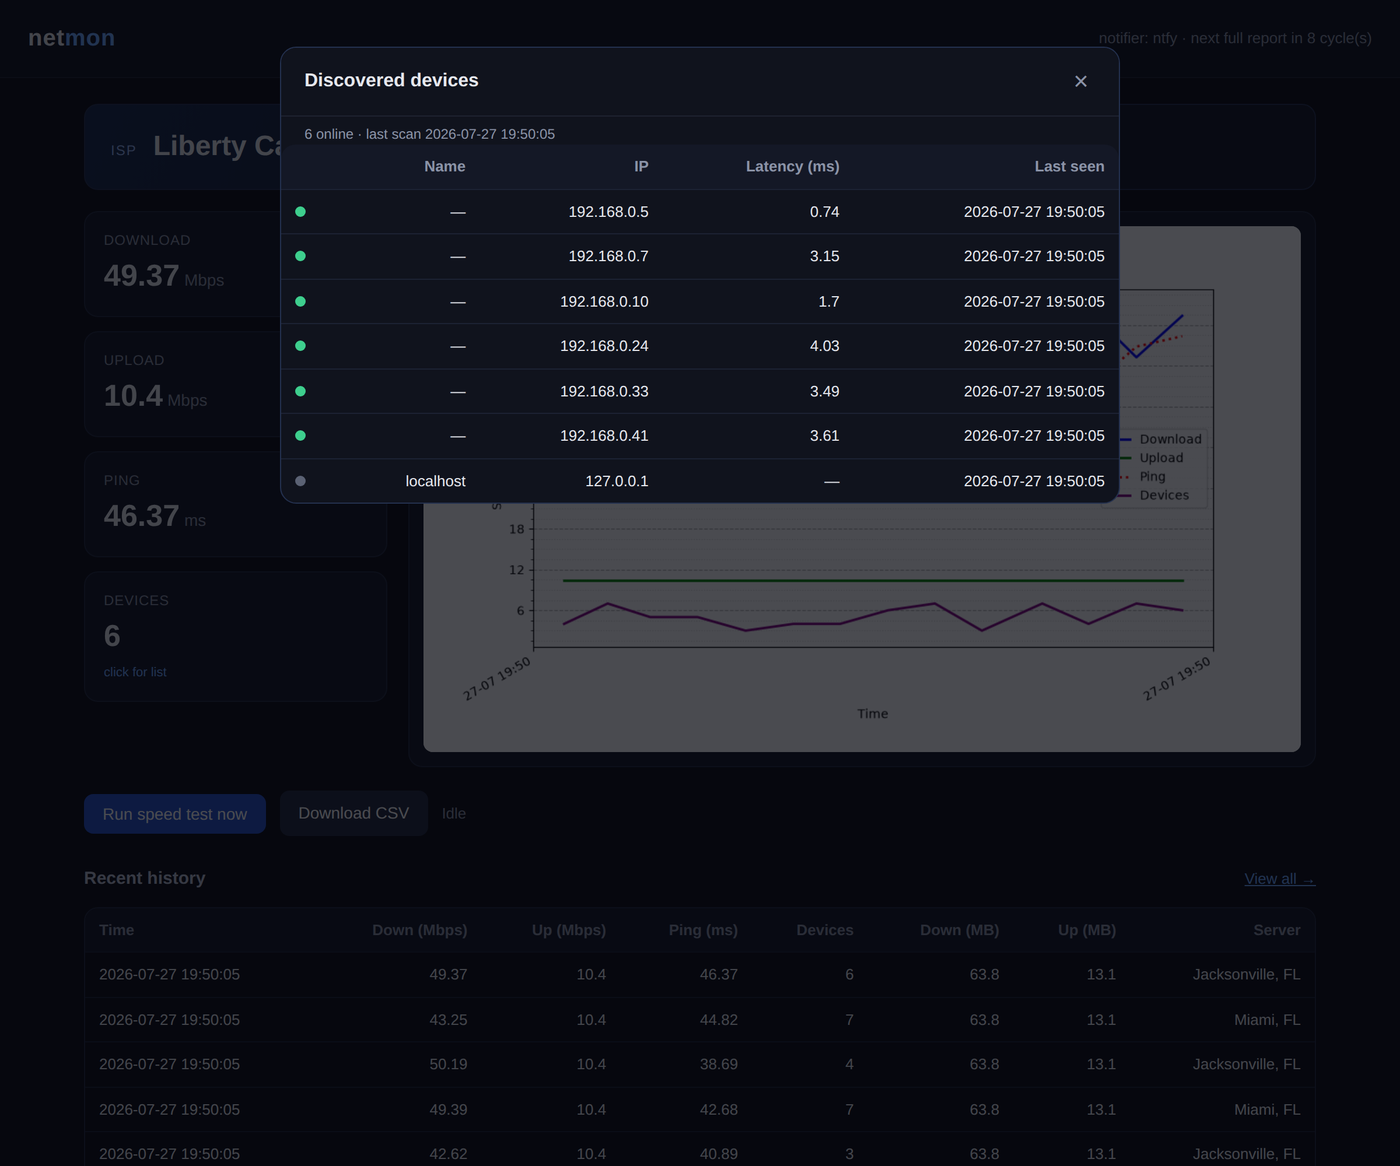
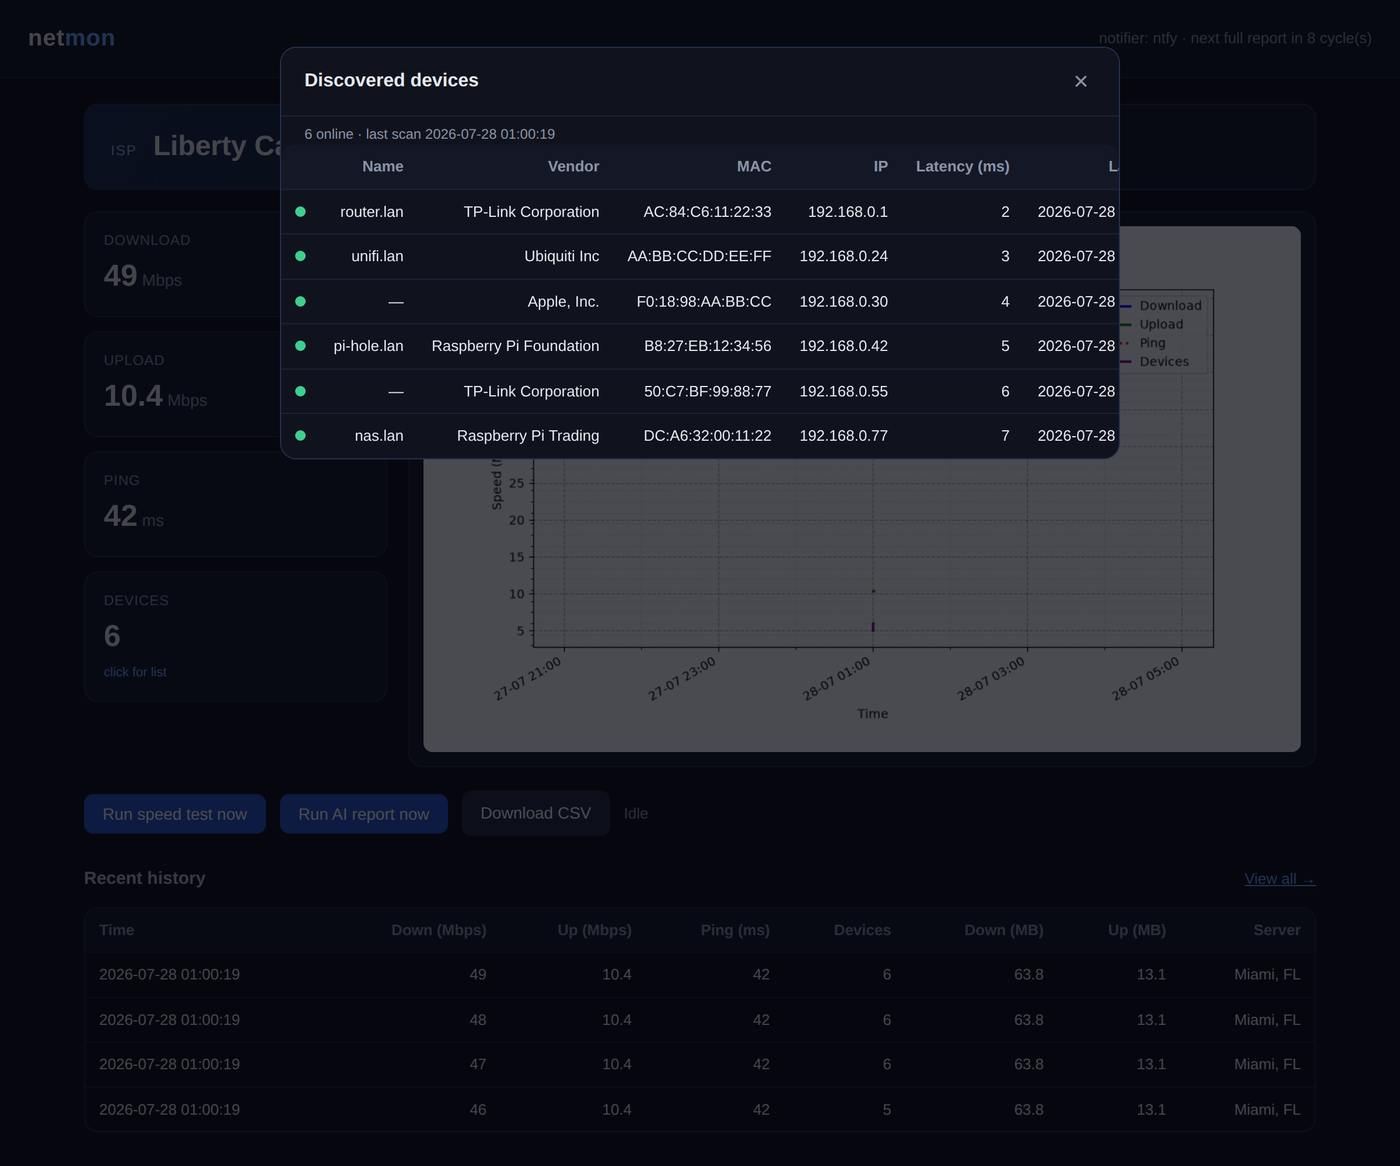
Capture MAC address and vendor for discovered devices (1.3.0)
The nmap ARP scan now records each device's MAC address, its OUI vendor
(e.g. "Ubiquiti Inc", "Apple, Inc."), and any nmap-provided hostname:

- runner parses the mac address + vendor + hostname from the nmap XML.
- models.NetworkDevice carries mac/vendor/hostname (optional, defaulted).
- device_scans gains macs/vendors/hostnames columns, with an automatic
  migration so existing databases keep working.
- The device modal shows Name / Vendor / MAC / IP / latency / last-seen;
  the name prefers the nmap hostname, falling back to reverse DNS.
- README device screenshot refreshed.

Claude-Session: https://claude.ai/code/session_013DAjxyBbM4ts2ydiTsLNY3

diff --git a/webapp.py b/webapp.py
@@ -70,22 +70,31 @@ def _resolve_hostnames(ips: list[str], budget: float = 2.0) -> dict[str, str]:
 
 def _devices_payload(db: sqlite.DB) -> dict:
     """Devices seen in the last 24h, newest scan first, with per-device
-    last-seen and online (present in the most recent scan) status."""
+    last-seen, MAC/vendor, and online (present in the most recent scan) status."""
     history = db.get_device_history(24)
     if not history:
         return {"scan_time": None, "online_count": 0, "devices": []}
 
-    latest_ts, latest_ips, latest_lats = history[0]
-    latest_set = set(latest_ips)
-    latest_lat = dict(zip(latest_ips, latest_lats))
+    latest = history[0]
+    latest_set = set(latest["ips"])
+    latest_lat = dict(zip(latest["ips"], latest["latencies"]))
 
-    last_seen: dict[str, "object"] = {}
-    for ts, ips, _lats in history:  # newest first => first occurrence is latest
-        for ip in ips:
-            if ip not in last_seen:
-                last_seen[ip] = ts
+    # Newest scan first, so the first time we see an IP is its latest info.
+    info: dict[str, dict] = {}
+    for scan in history:
+        ips = scan["ips"]
+        macs, vendors, hostnames = scan["macs"], scan["vendors"], scan["hostnames"]
+        for i, ip in enumerate(ips):
+            if ip not in info:
+                info[ip] = {
+                    "last_seen": scan["timestamp"],
+                    "mac": macs[i] if i < len(macs) else "",
+                    "vendor": vendors[i] if i < len(vendors) else "",
+                    "hostname": hostnames[i] if i < len(hostnames) else "",
+                }
 
-    names = _resolve_hostnames(list(last_seen.keys()))
+    # Reverse DNS as a fallback name when nmap didn't supply a hostname.
+    resolved = _resolve_hostnames(list(info.keys()))
 
     def ip_key(ip: str):
         try:
@@ -94,20 +103,23 @@ def _devices_payload(db: sqlite.DB) -> dict:
             return (0,)
 
     devices = []
-    for ip, ts in last_seen.items():
+    for ip, d in info.items():
         online = ip in latest_set
+        name = d["hostname"] or resolved.get(ip, "")  # nmap hostname, else reverse DNS
         devices.append({
             "ip": ip,
-            "hostname": names.get(ip, ""),
+            "name": name,
+            "vendor": d["vendor"],
+            "mac": d["mac"],
             "latency_ms": round(latest_lat.get(ip, 0.0), 2) if online else None,
-            "last_seen": ts.astimezone().strftime("%Y-%m-%d %H:%M:%S"),
+            "last_seen": d["last_seen"].astimezone().strftime("%Y-%m-%d %H:%M:%S"),
             "online": online,
         })
-    devices.sort(key=lambda d: (not d["online"], ip_key(d["ip"])))
+    devices.sort(key=lambda x: (not x["online"], ip_key(x["ip"])))
 
     return {
-        "scan_time": latest_ts.astimezone().strftime("%Y-%m-%d %H:%M:%S"),
-        "online_count": len(latest_ips),
+        "scan_time": latest["timestamp"].astimezone().strftime("%Y-%m-%d %H:%M:%S"),
+        "online_count": len(latest["ips"]),
         "devices": devices,
     }
 
@@ -270,8 +282,8 @@ INDEX_HTML = """<!doctype html>
     <div class="sub" id="devSub"></div>
     <div class="table-wrap" style="border:none">
       <table>
-        <thead><tr><th></th><th>Name</th><th>IP</th><th>Latency (ms)</th><th>Last seen</th></tr></thead>
-        <tbody id="devBody"><tr><td colspan="5" class="empty">Loading…</td></tr></tbody>
+        <thead><tr><th></th><th>Name</th><th>Vendor</th><th>MAC</th><th>IP</th><th>Latency (ms)</th><th>Last seen</th></tr></thead>
+        <tbody id="devBody"><tr><td colspan="7" class="empty">Loading…</td></tr></tbody>
       </table>
     </div>
   </div>
@@ -387,11 +399,11 @@ async function openDevices() {
       d.scan_time ? `${d.online_count} online · last scan ${d.scan_time}` : '';
     const body = document.getElementById('devBody');
     if (!d.devices.length) {
-      body.innerHTML = '<tr><td colspan="5" class="empty">No devices found</td></tr>';
+      body.innerHTML = '<tr><td colspan="7" class="empty">No devices found</td></tr>';
     } else {
       body.innerHTML = d.devices.map(x =>
         `<tr><td><span class="dot ${x.online?'on':'off'}" title="${x.online?'online':'offline'}"></span></td>` +
-        `<td>${x.hostname || '—'}</td><td>${x.ip}</td>` +
+        `<td>${x.name || '—'}</td><td>${x.vendor || '—'}</td><td>${x.mac || '—'}</td><td>${x.ip}</td>` +
         `<td>${x.latency_ms == null ? '—' : x.latency_ms}</td><td>${x.last_seen}</td></tr>`).join('');
     }
   } catch (e) { console.error(e); }

diff --git a/sqlite.py b/sqlite.py
@@ -43,6 +43,7 @@ class DB:
             db = cls(conn)
             with db.transaction():
                 db._create_schema()
+                db._migrate()
             return db
         except sqlite3.Error as e:
             raise RuntimeError(f"Failed to open database connection: {e}")
@@ -67,7 +68,10 @@ class DB:
             CREATE TABLE IF NOT EXISTS device_scans (
                 id             TEXT PRIMARY KEY,
                 ips            TEXT NOT NULL,
-                latencies      TEXT NOT NULL
+                latencies      TEXT NOT NULL,
+                macs           TEXT NOT NULL DEFAULT '[]',
+                vendors        TEXT NOT NULL DEFAULT '[]',
+                hostnames      TEXT NOT NULL DEFAULT '[]'
             );
         """)
 
@@ -87,6 +91,16 @@ class DB:
                 value TEXT NOT NULL
             );
         """)
+
+    def _migrate(self):
+        # Add device_scans columns to databases created before MAC/vendor
+        # capture. Existing rows get '[]' so reads stay consistent.
+        cols = {row[1] for row in self.conn.execute("PRAGMA table_info(device_scans);")}
+        for col in ("macs", "vendors", "hostnames"):
+            if col not in cols:
+                self.conn.execute(
+                    f"ALTER TABLE device_scans ADD COLUMN {col} TEXT NOT NULL DEFAULT '[]';"
+                )
 
     @contextmanager
     def transaction(self):
@@ -123,12 +137,15 @@ class DB:
         scan_id   = uuid.UUID(uuid7str())
         ips       = json.dumps([d.ip         for d in devices])
         latencies = json.dumps([d.latency_ms for d in devices])
+        macs      = json.dumps([d.mac        for d in devices])
+        vendors   = json.dumps([d.vendor     for d in devices])
+        hostnames = json.dumps([d.hostname   for d in devices])
 
         with self.transaction():
             self.conn.execute("""
-                INSERT INTO device_scans (id, ips, latencies)
-                VALUES (?, ?, ?)
-            """, (str(scan_id), ips, latencies))
+                INSERT INTO device_scans (id, ips, latencies, macs, vendors, hostnames)
+                VALUES (?, ?, ?, ?, ?, ?)
+            """, (str(scan_id), ips, latencies, macs, vendors, hostnames))
         return scan_id
 
     def add_speedtest(self, speedtest: models.SpeedTest):
@@ -237,13 +254,13 @@ class DB:
 
         return metrics, device_counts
 
-    def get_device_history(self, hours: int = 24) -> list[tuple[datetime, list[str], list[float]]]:
+    def get_device_history(self, hours: int = 24) -> list[dict]:
         # Every device scan in the window, newest first, so the dashboard can
         # build a per-device "last seen" view. device_scans has no timestamp of
         # its own, so the scan time comes from the joined metric.
         hours = max(1, int(hours))
         rows = self._fetchall("""
-            SELECT m.timestamp, ds.ips, ds.latencies
+            SELECT m.timestamp, ds.ips, ds.latencies, ds.macs, ds.vendors, ds.hostnames
             FROM device_scans ds
             JOIN speedtest st ON st.device_scans_id = ds.id
             JOIN metrics m ON m.id = st.metrics_id
@@ -251,9 +268,22 @@ class DB:
             ORDER BY m.timestamp DESC;
         """, (f"-{hours} hours",))
 
-        out: list[tuple[datetime, list[str], list[float]]] = []
-        for ts, ips, latencies in rows:
-            out.append((datetime.fromisoformat(ts), json.loads(ips), json.loads(latencies)))
+        def _load(value):
+            try:
+                return json.loads(value) if value else []
+            except (ValueError, TypeError):
+                return []
+
+        out: list[dict] = []
+        for ts, ips, latencies, macs, vendors, hostnames in rows:
+            out.append({
+                "timestamp": datetime.fromisoformat(ts),
+                "ips": _load(ips),
+                "latencies": _load(latencies),
+                "macs": _load(macs),
+                "vendors": _load(vendors),
+                "hostnames": _load(hostnames),
+            })
         return out
 
     # ------------------------------------------------------------------ #

diff --git a/runner.py b/runner.py
@@ -85,18 +85,38 @@ class Runner:
 
     @staticmethod
     def _parse_device(host: ET.Element) -> models.NetworkDevice | None:
-        addr   = host.find("address")
         status = host.find("status")
-        if addr is None or status is None or status.get("state") != "up":
+        if status is None or status.get("state") != "up":
             return None
+
+        # An nmap ARP scan reports both the IPv4 and (for LAN hosts) the MAC
+        # address, the MAC's OUI vendor, and sometimes a reverse-DNS hostname.
+        ip = mac = vendor = ""
+        for addr in host.findall("address"):
+            kind = addr.get("addrtype")
+            if kind == "ipv4":
+                ip = addr.get("addr") or ip
+            elif kind == "mac":
+                mac = addr.get("addr") or mac
+                vendor = addr.get("vendor") or vendor
+        if not ip:
+            return None
+
+        hostname = ""
+        hn = host.find("hostnames/hostname")
+        if hn is not None:
+            hostname = hn.get("name") or ""
 
         times  = host.find("times")
         srtt   = times.get("srtt") if times is not None else None
         latency_ms = round(int(srtt) / 1000, 2) if srtt is not None else 0
 
         return models.NetworkDevice.create(
-            ip=addr.get("addr") or "",
-            latency_ms=latency_ms
+            ip=ip,
+            latency_ms=latency_ms,
+            mac=mac,
+            vendor=vendor,
+            hostname=hostname,
         )
 
     def run_devices_scan(self) -> list[models.NetworkDevice]:

diff --git a/models.py b/models.py
@@ -62,25 +62,34 @@ class NetworkMetric:
 class NetworkDevice:
     id: uuid.UUID
     ip: str
-    latency_ms: float 
-    timestamp: datetime 
+    latency_ms: float
+    timestamp: datetime
+    mac: str = ""
+    vendor: str = ""
+    hostname: str = ""
 
     @classmethod
     def create(
         cls,
         ip: str,
         latency_ms: float,
+        mac: str = "",
+        vendor: str = "",
+        hostname: str = "",
     ) -> "NetworkDevice":
         if not ip or not ip.strip():
             raise ValueError("IP cannot be empty")
         if latency_ms < 0:
             raise ValueError("Latency must be non-negative")
-    
+
         return cls(
             id=uuid.UUID(uuid7str()),
             ip=ip,
             latency_ms=latency_ms,
-            timestamp=datetime.now(timezone.utc)
+            timestamp=datetime.now(timezone.utc),
+            mac=mac,
+            vendor=vendor,
+            hostname=hostname,
         )
 
 

diff --git a/CHANGELOG.md b/CHANGELOG.md
@@ -14,6 +14,18 @@ control when you upgrade; see the [README](README.md#docker).
 
 _Nothing yet._
 
+## [1.3.0] - 2026-07-28
+
+### Added
+- **MAC address & vendor for discovered devices** — the `nmap` ARP scan now
+  captures each device's MAC address, its OUI vendor (e.g. "Ubiquiti Inc",
+  "Apple, Inc."), and any nmap-provided hostname. The device modal shows
+  Name / Vendor / MAC / IP / latency / last-seen.
+
+### Changed
+- `device_scans` gained `macs`, `vendors`, and `hostnames` columns; existing
+  databases are migrated automatically on startup (old rows keep working).
+
 ## [1.2.1] - 2026-07-27
 
 ### Fixed
@@ -98,7 +110,8 @@ report engine.
   line, so generated graphs are correctly ignored.
 - README clone URLs now point at this repository.
 
-[Unreleased]: https://github.com/VincentFlagg/netmon/compare/v1.2.1...HEAD
+[Unreleased]: https://github.com/VincentFlagg/netmon/compare/v1.3.0...HEAD
+[1.3.0]: https://github.com/VincentFlagg/netmon/compare/v1.2.1...v1.3.0
 [1.2.1]: https://github.com/VincentFlagg/netmon/compare/v1.2.0...v1.2.1
 [1.2.0]: https://github.com/VincentFlagg/netmon/compare/v1.1.0...v1.2.0
 [1.1.0]: https://github.com/VincentFlagg/netmon/compare/v1.0.0...v1.1.0

diff --git a/README.md b/README.md
@@ -195,7 +195,7 @@ The dashboard shows:
 
 * **Latest metrics** — a prominent ISP banner plus download, upload, ping, and device-count cards, next to the 24-hour graph.
 * **24-hour graph** — the same `matplotlib` chart that goes to your notifier, refreshed automatically.
-* **Device list** — click the Devices card to see the devices discovered over the last 24 hours: online/offline, IP, hostname (best-effort reverse DNS), latency, and when each was last seen.
+* **Device list** — click the Devices card to see the devices discovered over the last 24 hours: online/offline, name (hostname), **MAC address and vendor** (from the `nmap` ARP scan), IP, latency, and when each was last seen.
 * **History** — the latest 10 measurements, with a **View all** link to a full `/history` page.
 * **Run speed test now** — a button that triggers an immediate measurement on demand (it stores the result and sends a mini report, without disturbing the scheduled 4-hour detailed-report cadence).
 * **Run AI report now** *(when AI is configured)* — generate and send a detailed AI report on demand; the latest report is also shown on the dashboard.
